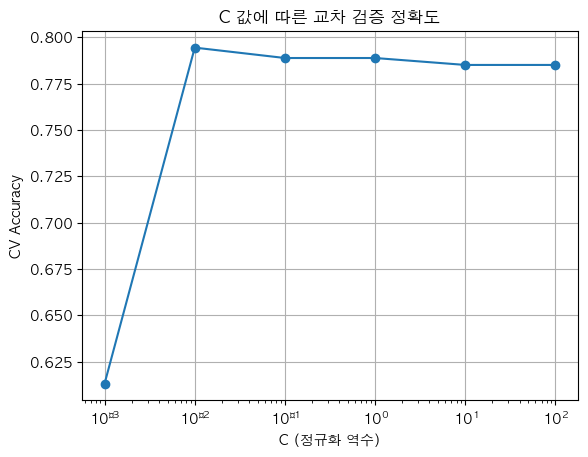
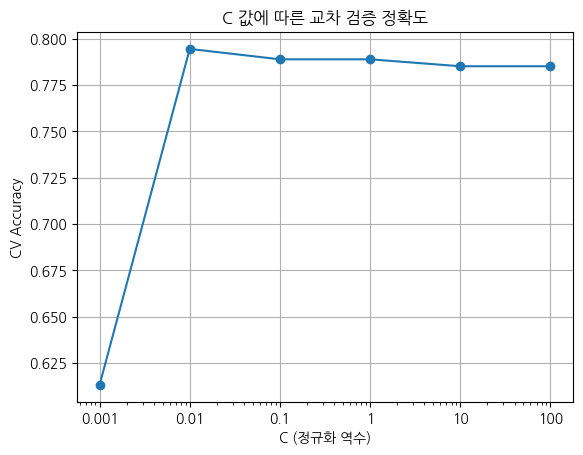
ml-lr update

Changed region(s): [[0.0, 0.0, 0.988, 0.9846]]

diff --git a/_posts/ML/2026-05-24-ML-LogisticRegression.md b/_posts/ML/2026-05-24-ML-LogisticRegression.md
@@ -209,11 +209,13 @@ print(f"최적 C: {best_C},  CV Accuracy: {lr_cv.best_score_:.4f}")
 # C에 따른 정확도 시각화
 results = pd.DataFrame(lr_cv.cv_results_)
 plt.semilogx(param_grid['C'], results['mean_test_score'], marker = 'o')
+plt.xticks(param_grid['C'], [str(c) for c in param_grid['C']])  # 틱 레이블 직접 지정 (U+2212 방지)
 plt.xlabel('C (정규화 역수)')
 plt.ylabel('CV Accuracy')
 plt.title('C 값에 따른 교차 검증 정확도')
 plt.grid(True)
 plt.show()
+
 ```
 
 <img src = "/assets/img/ML/lr/lr_c_search.png" width = "70%" alt = "lr_c_search">